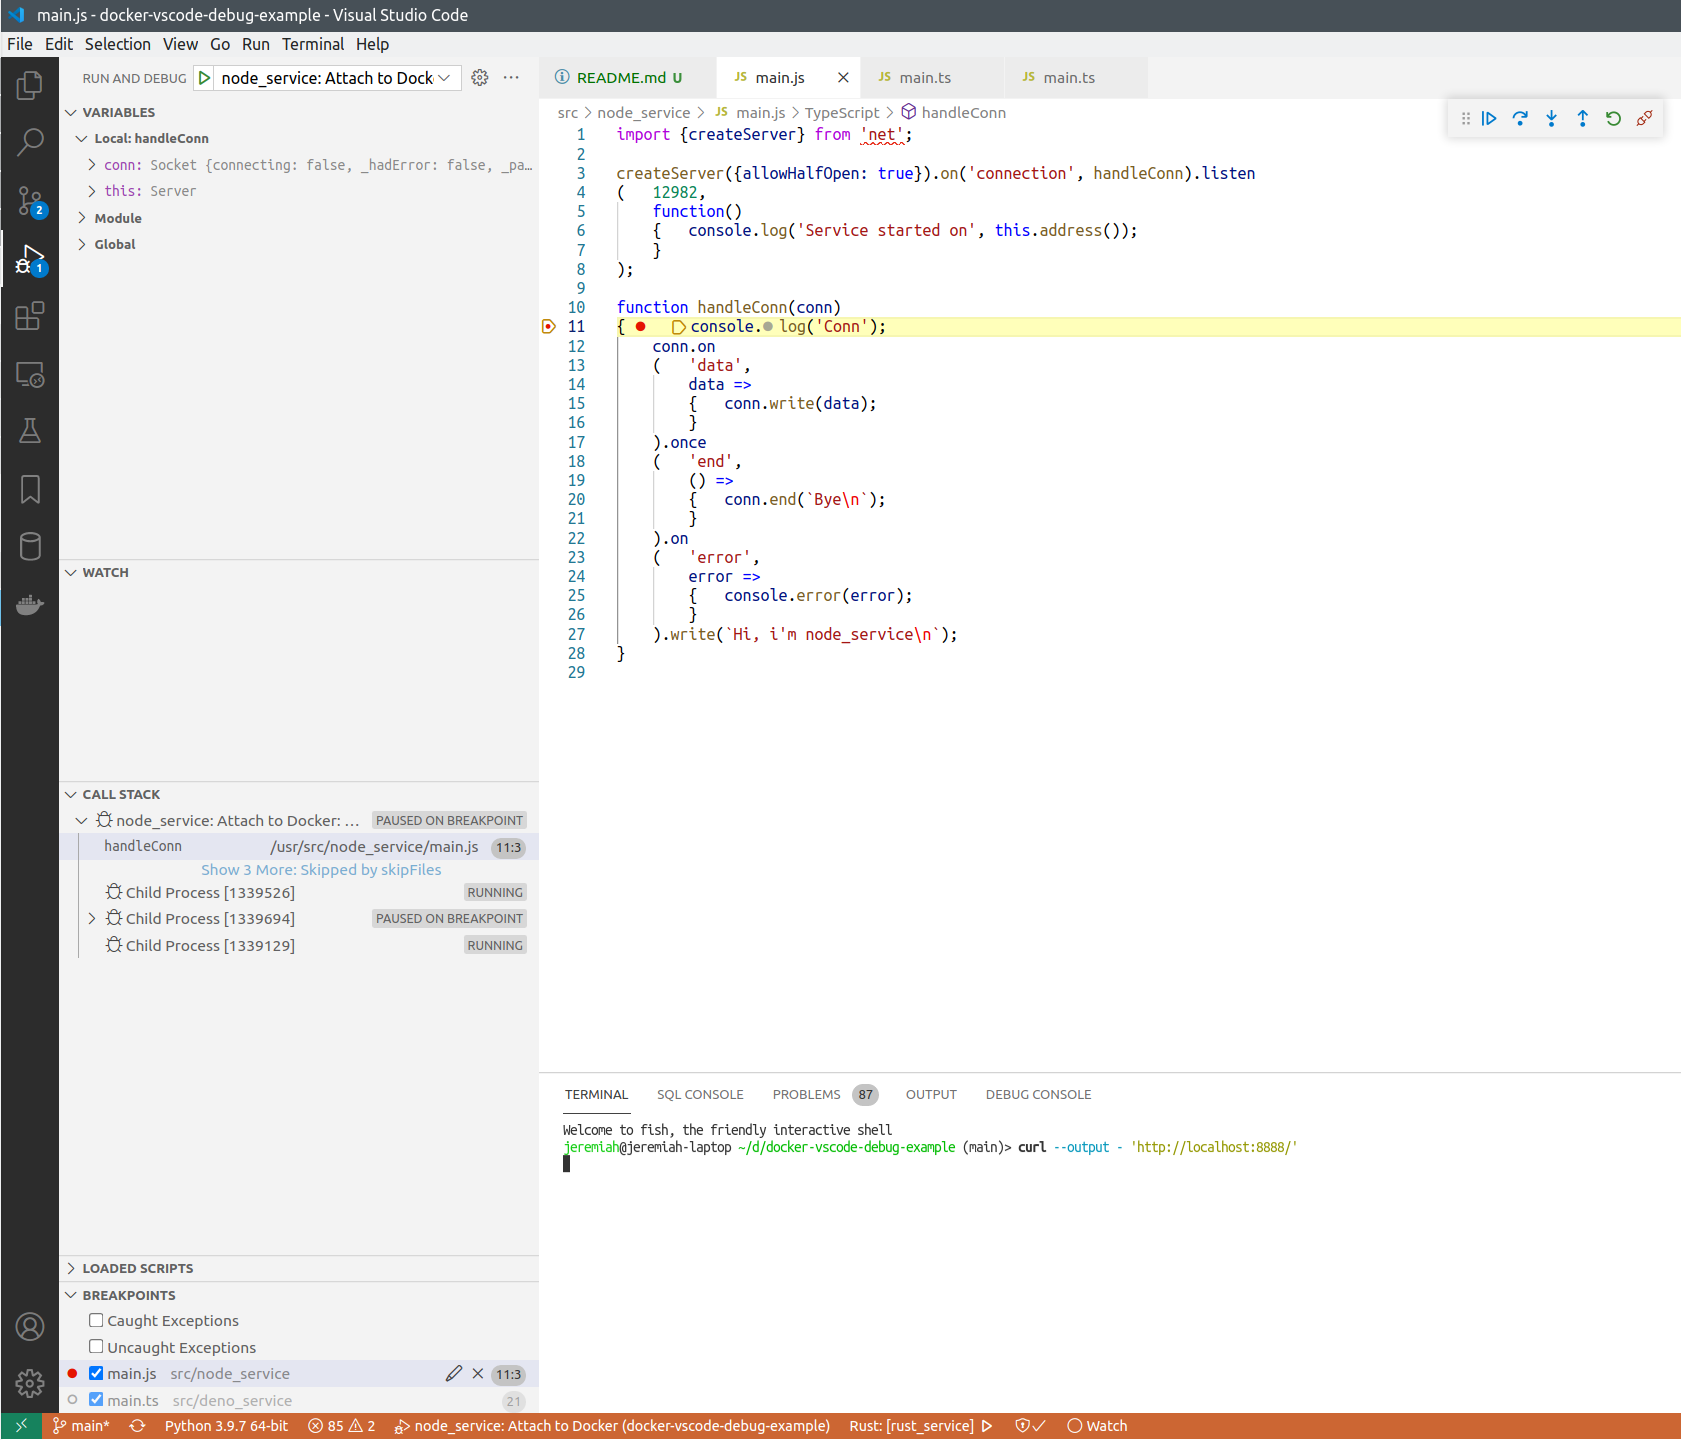
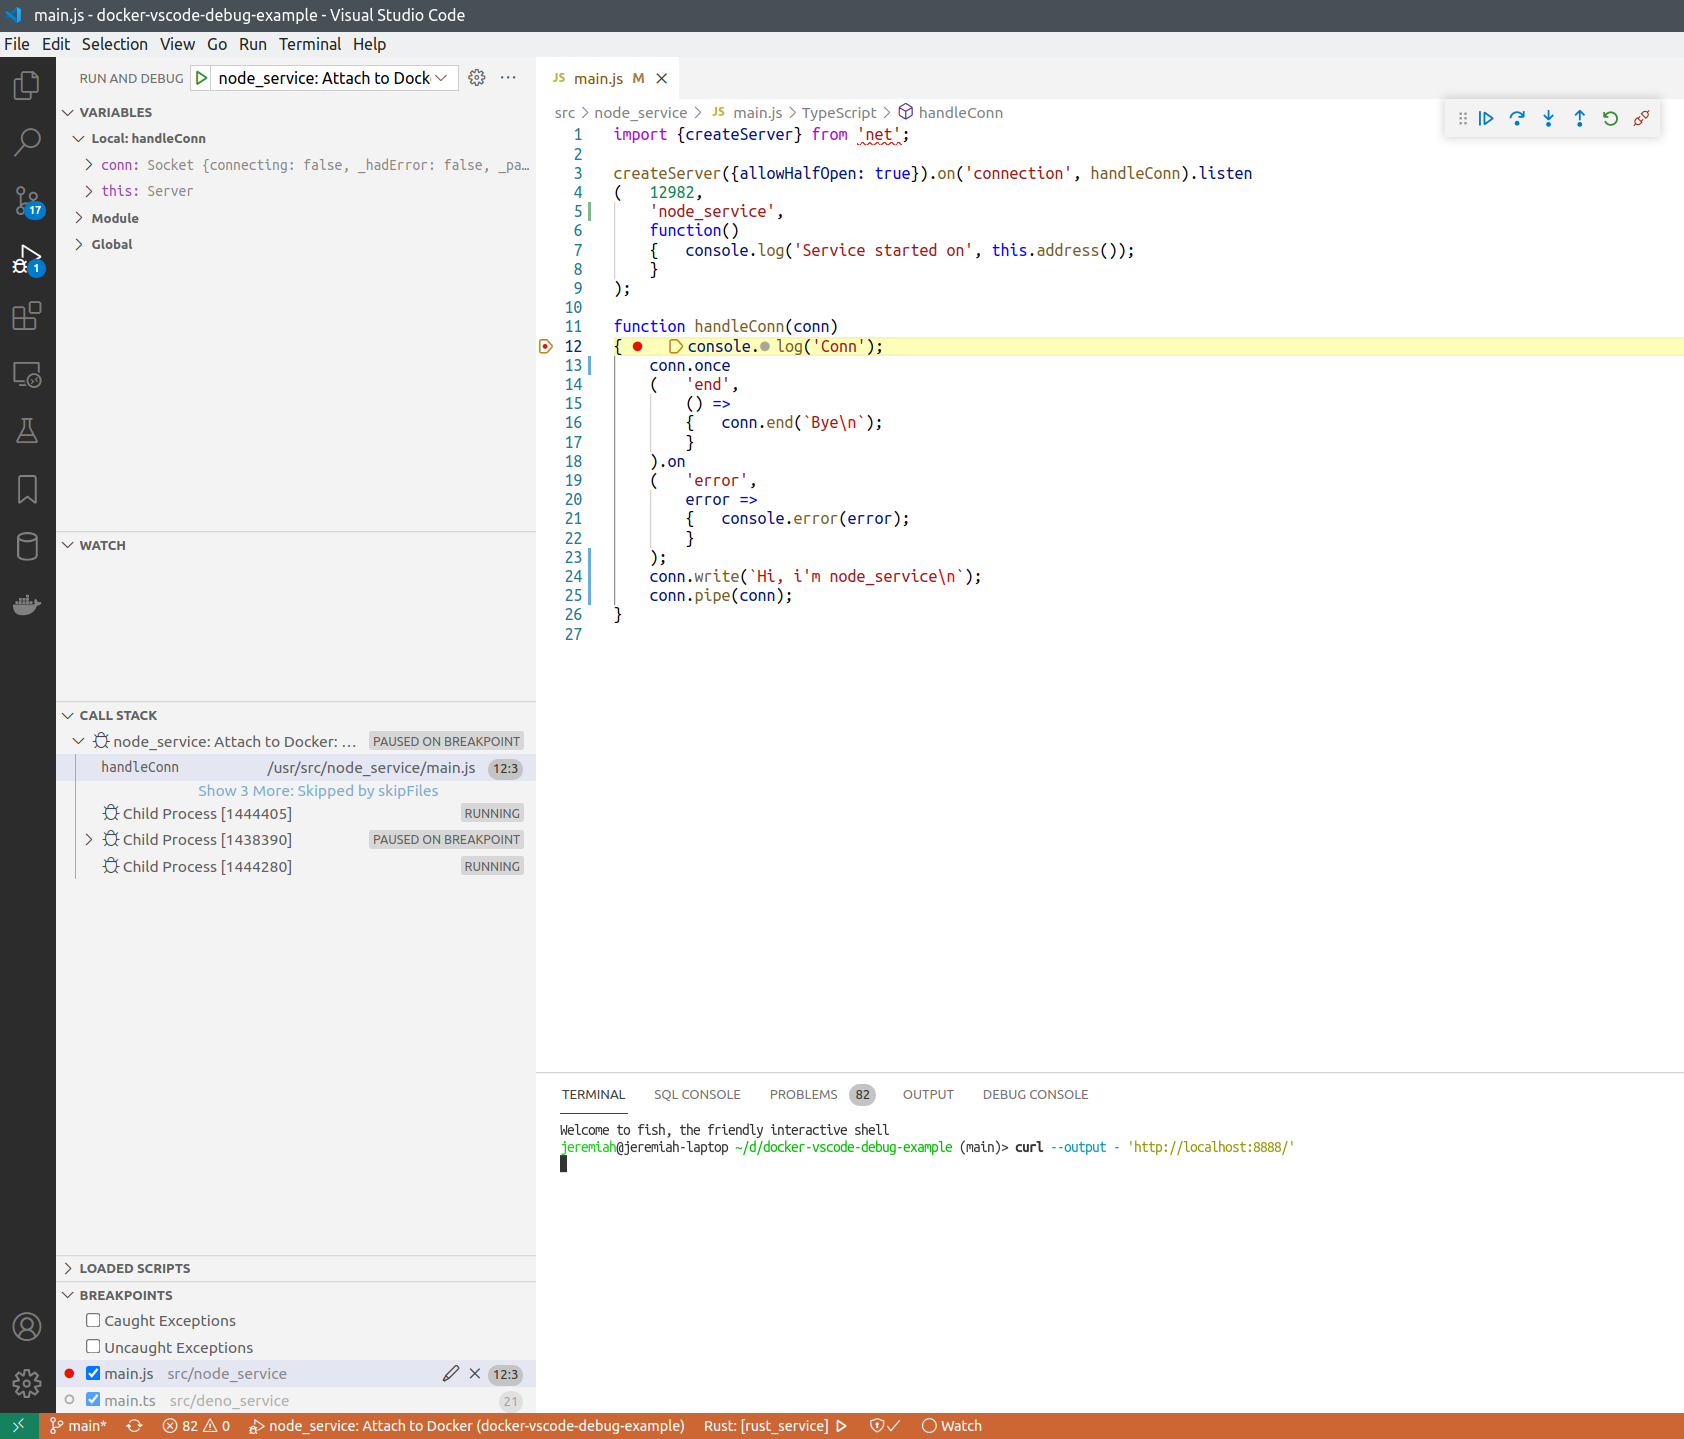
Changes

diff --git a/src/node_service/main.js b/src/node_service/main.js
@@ -2,6 +2,7 @@ import {createServer} from 'net';
 
 createServer({allowHalfOpen: true}).on('connection', handleConn).listen
 (	12982,
+	'node_service',
 	function()
 	{	console.log('Service started on', this.address());
 	}
@@ -9,12 +10,7 @@ createServer({allowHalfOpen: true}).on('connection', handleConn).listen
 
 function handleConn(conn)
 {	console.log('Conn');
-	conn.on
-	(	'data',
-		data =>
-		{	conn.write(data);
-		}
-	).once
+	conn.once
 	(	'end',
 		() =>
 		{	conn.end(`Bye\n`);
@@ -24,5 +20,7 @@ function handleConn(conn)
 		error =>
 		{	console.error(error);
 		}
-	).write(`Hi, i'm node_service\n`);
+	);
+	conn.write(`Hi, i'm node_service\n`);
+	conn.pipe(conn);
 }

diff --git a/src/deno_service/main.ts b/src/deno_service/main.ts
@@ -3,7 +3,7 @@ import {writeAll} from './private/deps.ts';
 const encoder = new TextEncoder;
 
 // 1. Start server
-const server = Deno.listen({transport: 'tcp', hostname: 'deno_service', port: 64840});
+const server = Deno.listen({transport: 'tcp', hostname: 'deno_service', port: 5090});
 console.log('Service started on', server.addr);
 
 // 2. Wait for termination request

diff --git a/src/php_fpm_service/index.php b/src/php_fpm_service/index.php
@@ -6,9 +6,9 @@ if (isset($_GET['info']))
 else
 {	echo "<div>Hi, i'm php_fpm_service</div>";
 
-	ask_service('deno_service', 64840);
+	ask_service('deno_service', 5090);
 	ask_service('node_service', 12982);
-	ask_service('rust_service', 54329);
+	ask_service('rust_service', 9023);
 	ask_service('swift_service', 15880);
 	ask_service('dotnet_service', 7287);
 	ask_service('python_service', 8497);

diff --git a/src/rust_service/src/main.rs b/src/rust_service/src/main.rs
@@ -1,7 +1,7 @@
 use tokio::net::{TcpListener, TcpStream};
 use tokio::io::{AsyncReadExt, AsyncWriteExt};
 
-const LISTEN: &str = "rust_service:54329";
+const LISTEN: &str = "rust_service:9023";
 const BUFFER_SIZE: usize = 1024;
 
 #[tokio::main]

diff --git a/src/c_service/README.md b/src/c_service/README.md
@@ -83,21 +83,21 @@ COPY ./src/c_service .
 RUN clang -O0 -g main.c -lev -o /usr/bin/c_service && \
 	rm -r /usr/src/c_service
 
-CMD ["bash", "-c", "lldb-server platform --server --listen 0.0.0.0:54255 --gdbserver-port 9850 & /usr/bin/c_service"]
+CMD ["bash", "-c", "lldb-server platform --server --listen 0.0.0.0:2201 --gdbserver-port 9850 & /usr/bin/c_service"]
 
 # app service port
 EXPOSE 8543
 # lldb-server listens for connections
-EXPOSE 54255
+EXPOSE 2201
 # lldb-server service port
 EXPOSE 9850
 ```
 
 First, in base image, i `apt`-install `libev-dev`, and `clang`-compile the application.
-Then in debug image i recompile for debug, and the startup command looks like this: `bash -c 'lldb-server platform --server --listen 0.0.0.0:54255 --gdbserver-port 9850 & /usr/bin/c_service'`.
+Then in debug image i recompile for debug, and the startup command looks like this: `bash -c 'lldb-server platform --server --listen 0.0.0.0:2201 --gdbserver-port 9850 & /usr/bin/c_service'`.
 It starts `lldb-server` in parallel with our app service.
 
-We expose 2 debugger ports (54255 and 9850) to the host machine together with the app service port (8543).
+We expose 2 debugger ports (2201 and 9850) to the host machine together with the app service port (8543).
 
 In [launch.json](../../.vscode/launch.json) we have these settings for the VSCode debugger:
 
@@ -108,20 +108,20 @@ In [launch.json](../../.vscode/launch.json) we have these settings for the VSCod
 	"program": "/usr/bin/c_service", // assuming that the service is running under this name in the container
 	"initCommands":
 	[	"platform select remote-linux",
-		"platform connect connect://localhost:54255",
+		"platform connect connect://localhost:2201",
 		"settings set target.inherit-env false",
 		"settings set target.source-map /usr/src/c_service ${workspaceFolder}/src/c_service"
 	]
 }
 ```
 
-So the debugger client will connect to `localhost:54255`, that is mapped to our service port inside Docker.
+So the debugger client will connect to `localhost:2201`, that is mapped to our service port inside Docker.
 
 It's also possible to debug with `lldb` client installed on your machine, bypassing VSCode, or to run lldb from a Docker image:
 
 ```bash
 # from project root directory
-docker run -it --rm --network=host --pid=host -v "$PWD:$PWD" silkeh/clang:12 lldb -o 'platform select remote-linux' -o 'platform connect connect://localhost:54255' -o 'attach --name c_service' -o "settings set target.source-map /usr/src/c_service $PWD/src/c_service"
+docker run -it --rm --network=host --pid=host -v "$PWD:$PWD" silkeh/clang:12 lldb -o 'platform select remote-linux' -o 'platform connect connect://localhost:2201' -o 'attach --name c_service' -o "settings set target.source-map /usr/src/c_service $PWD/src/c_service"
 ```
 
 ![image: lldb cli](../../readme-assets/c_service_lldb_cli.png)

diff --git a/README.md b/README.md
@@ -108,16 +108,16 @@ This project uses list of "well-known" ports for it's services.
 
 - http_service - ${HTTP_PORT} (HTTP).
 - php_fpm_service - 21104 (FastCGI), and it connects to "host.docker.internal:33078". Docker containers can reach host machine by the "host.docker.internal" hostname. php_fpm_service assumes that PHP debugger (XDebug) is listening on "host.docker.internal:33078". It will listen when you select corresponding debug configuration, and press F5.
-- deno_service - 64840 (TCP), and 60220 (debugger server, Chrome Debugging Protocol). VSCode will connect to this port when you select corresponding debug configuration, and press F5.
+- deno_service - 5090 (TCP), and 48050 (debugger server, Chrome Debugging Protocol). VSCode will connect to this port when you select corresponding debug configuration, and press F5.
 - node_service - 12982 (TCP), and 8548 (debugger server, Chrome Debugging Protocol).
-- rust_service - 54329 (TCP), and 2 ports for debugger server: 29935 and 18088 (lldb-server).
-- swift_service - 15880 (TCP), and 2 ports for debugger server: 56439 and 16276 (lldb-server).
-- c_service - 8543 (TCP), and 2 ports for debugger server: 54255 and 9850 (lldb-server).
+- rust_service - 9023 (TCP), and 2 ports for debugger server: 29935 and 18088 (lldb-server).
+- swift_service - 15880 (TCP), and 2 ports for debugger server: 2418 and 16276 (lldb-server).
+- c_service - 8543 (TCP), and 2 ports for debugger server: 2201 and 9850 (lldb-server).
 - dotnet_service - 7287 (TCP), and it uses vsdbg debugger. VSCode knows to start the debugger within container, because the container name is assumed to be "docker-vscode-debug-example_dotnet_service_1", and is hardcoded in [.vscode/launch.json](./.vscode/launch.json).
 - java_service - 27712 (TCP), 9455 (debugger, ptvsd)
 - python_service - 8497 (TCP), 22742 (debugger, ptvsd)
 
-All the port numbers are random (`Math.floor(Math.random() * 0xFFFF)`).
+All the port numbers are random (`Math.floor(Math.random() * 0xBFFF)`).
 
 This project is intended to be a good starting point for other projects. If you base your project on this, you'll need to rename services, and ports in all files where they appear.
 

diff --git a/src/swift_service/README.md b/src/swift_service/README.md
@@ -61,20 +61,20 @@ RUN swift build -c release -Xswiftc -g && \
 	mv .build/x86_64-unknown-linux-gnu/release/swift_service -t /usr/bin
 
 # 4. Run the app + lldb-server in background.
-CMD ["bash", "-c", "lldb-server platform --server --listen 0.0.0.0:56439 --gdbserver-port 16276 & swift run"]
+CMD ["bash", "-c", "lldb-server platform --server --listen 0.0.0.0:2418 --gdbserver-port 16276 & swift run"]
 
 # app service port
 EXPOSE 15880
 # lldb-server listens for connections
-EXPOSE 56439
+EXPOSE 2418
 # lldb-server service port
 EXPOSE 16276
 ```
 
-The startup command looks like this: `bash -c 'lldb-server platform --server --listen 0.0.0.0:56439 --gdbserver-port 16276 & swift run'`.
-It starts `lldb-server` that is listening on `0.0.0.0:56439`, and also our app service in parallel.
+The startup command looks like this: `bash -c 'lldb-server platform --server --listen 0.0.0.0:2418 --gdbserver-port 16276 & swift run'`.
+It starts `lldb-server` that is listening on `0.0.0.0:2418`, and also our app service in parallel.
 
-We expose 2 debugger ports (56439 and 16276) to the host machine together with the app service port (15880).
+We expose 2 debugger ports (2418 and 16276) to the host machine together with the app service port (15880).
 
 In [launch.json](../../.vscode/launch.json) we have these settings for the VSCode debugger:
 
@@ -85,11 +85,11 @@ In [launch.json](../../.vscode/launch.json) we have these settings for the VSCod
 	"program": ".build/x86_64-unknown-linux-gnu/debug/swift_service", // assuming that the service is running under this name in the container
 	"initCommands":
 	[	"platform select remote-linux",
-		"platform connect connect://localhost:56439",
+		"platform connect connect://localhost:2418",
 		"settings set target.inherit-env false",
 		"settings set target.source-map /usr/src/swift_service ${workspaceFolder}/src/swift_service"
 	]
 }
 ```
 
-So the debugger client will connect to `localhost:56439`, that is mapped to our service port inside Docker.
+So the debugger client will connect to `localhost:2418`, that is mapped to our service port inside Docker.

diff --git a/src/deno_service/README.md b/src/deno_service/README.md
@@ -50,15 +50,15 @@ RUN chown -R root:deno /usr/src/deno_service && \
 	chmod -R 750 /usr/src/deno_service
 
 USER deno
-CMD ["run", "--unstable", "--allow-net", "--inspect=0.0.0.0:60220", "/usr/src/deno_service/main.ts"]
+CMD ["run", "--unstable", "--allow-net", "--inspect=0.0.0.0:48050", "/usr/src/deno_service/main.ts"]
 
 # app service port
-EXPOSE 64840
+EXPOSE 5090
 # debugger port
-EXPOSE 60220
+EXPOSE 48050
 ```
 
-To start our service, we run `deno` command with debugger parameters. The debugger server (Chrome Debugging Protocol) will be listening on `0.0.0.0:60220` (default route, port 60220).
+To start our service, we run `deno` command with debugger parameters. The debugger server (Chrome Debugging Protocol) will be listening on `0.0.0.0:48050` (default route, port 48050).
 We expose the debugger port to the host machine together with the app service port.
 
 In [launch.json](../../.vscode/launch.json) we have these settings for the VSCode debugger:
@@ -67,10 +67,10 @@ In [launch.json](../../.vscode/launch.json) we have these settings for the VSCod
 {	"name": "deno_service: Attach to Docker",
 	"type": "pwa-node",
 	"request": "attach",
-	"port": 60220,
+	"port": 48050,
 	"localRoot": "${workspaceFolder}/src/deno_service",
 	"remoteRoot": "/usr/src/deno_service"
 }
 ```
 
-So the debugger client will connect to `localhost:60220`, that is mapped to our service port inside Docker.
+So the debugger client will connect to `localhost:48050`, that is mapped to our service port inside Docker.

diff --git a/src/rust_service/README.md b/src/rust_service/README.md
@@ -75,7 +75,7 @@ RUN cargo build && \
 CMD ["bash", "-c", "lldb-server platform --server --listen 0.0.0.0:29935 --gdbserver-port 18088 & /usr/bin/rust_service"]
 
 # app service port
-EXPOSE 54329
+EXPOSE 9023
 # lldb-server listens for connections
 EXPOSE 29935
 # lldb-server service port
@@ -86,7 +86,7 @@ First i `apt`-install `lldb` package, that also includes `lldb-server`.
 Then the application is compiled, and the startup command looks like this: `bash -c 'lldb-server platform --server --listen 0.0.0.0:29935 --gdbserver-port 18088 & /usr/bin/rust_service'`.
 It starts `lldb-server` that is listening on `0.0.0.0:29935`, and also our app service in parallel.
 
-We expose 2 debugger ports (29935 and 18088) to the host machine together with the app service port (54329).
+We expose 2 debugger ports (29935 and 18088) to the host machine together with the app service port (9023).
 
 In [launch.json](../../.vscode/launch.json) we have these settings for the VSCode debugger:
 
